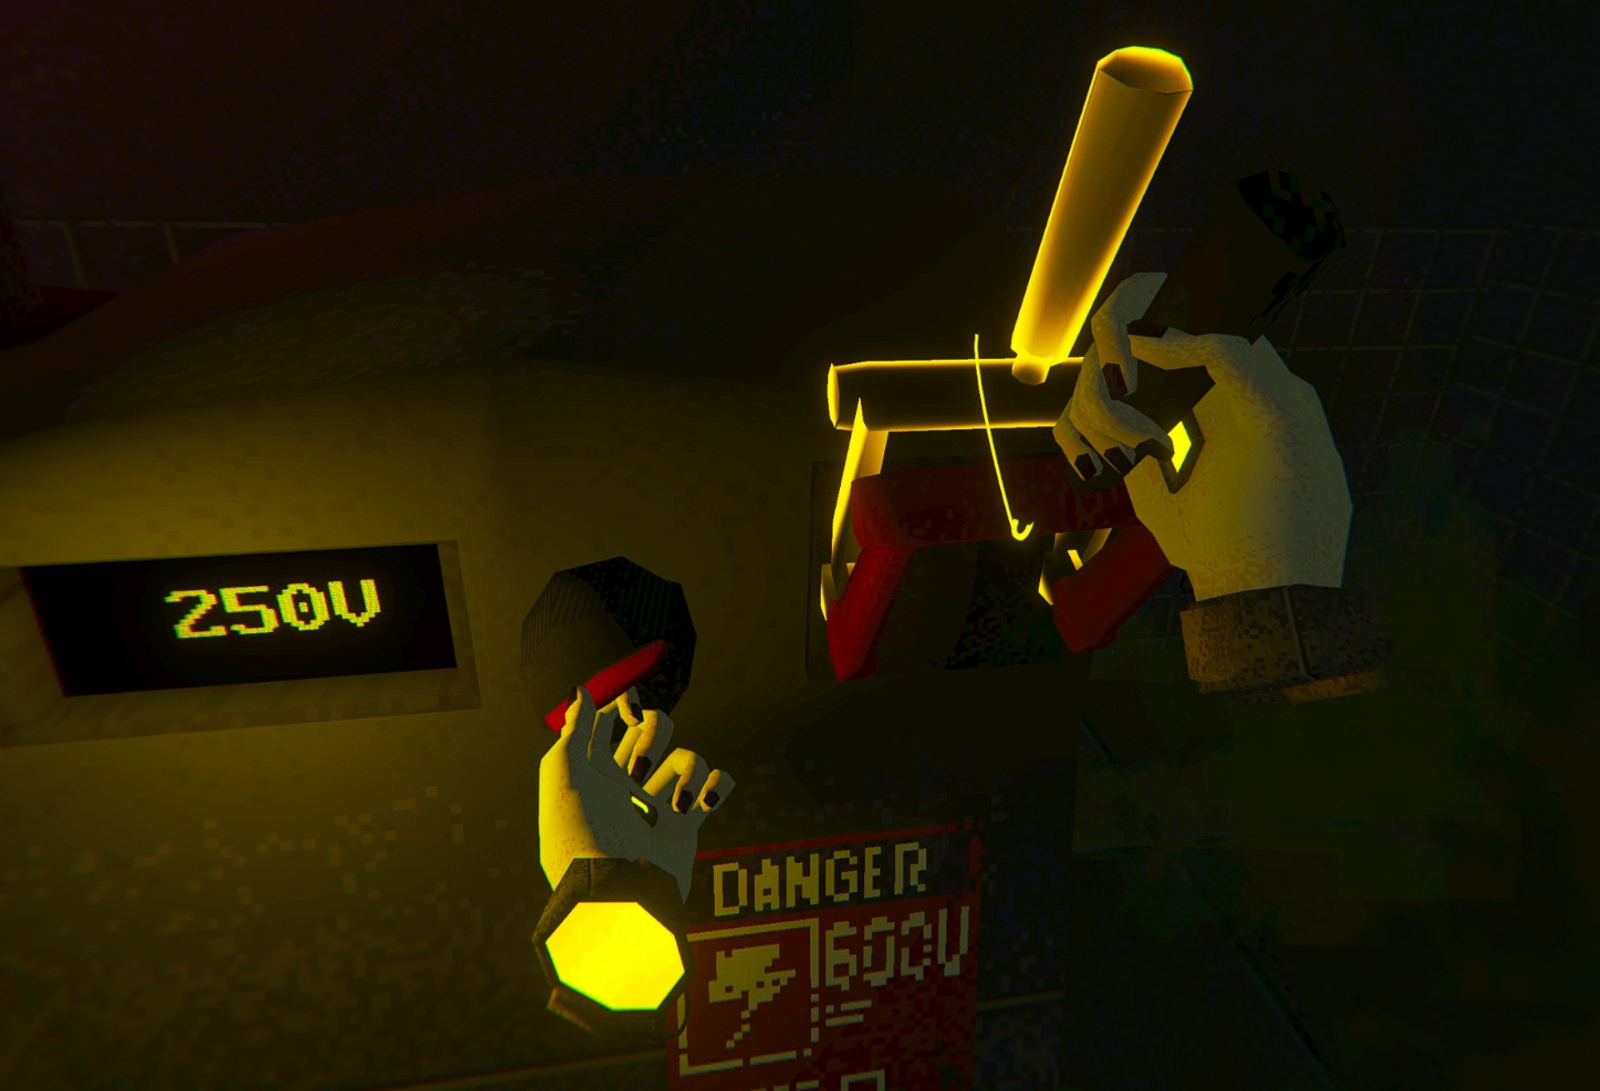
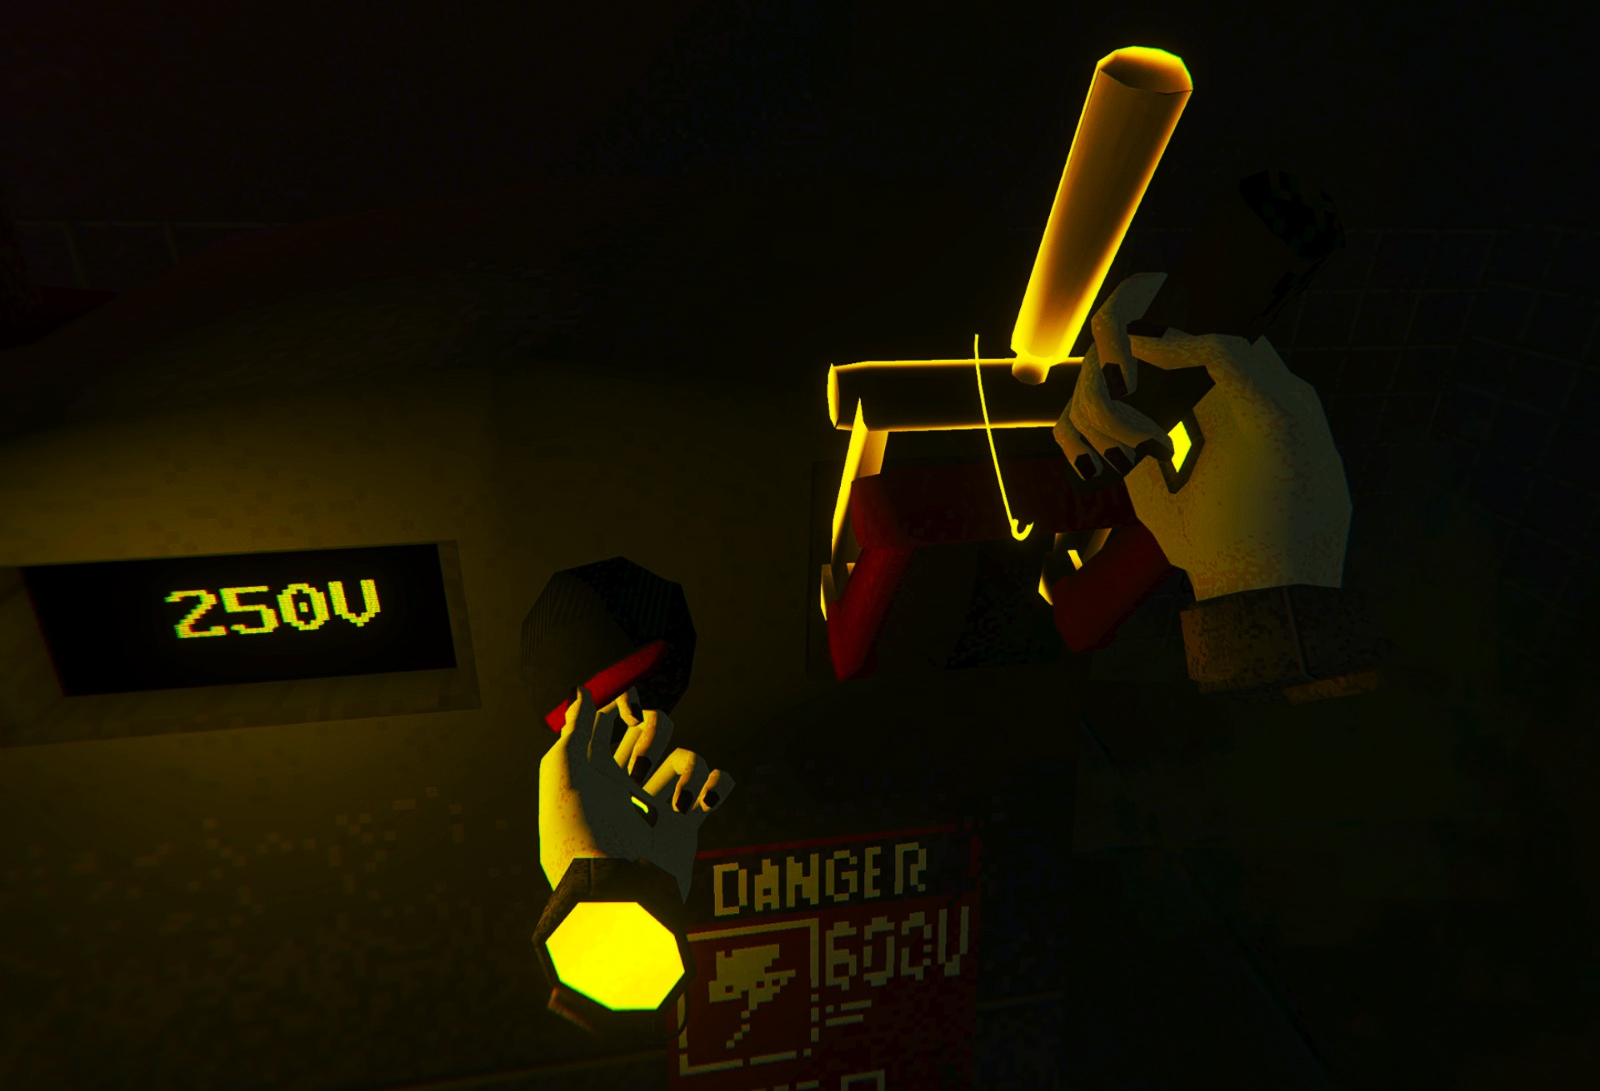
Relatorio FIM

diff --git a/Relatório/PFC_Relatorio_50825_51692.tex b/Relatório/PFC_Relatorio_50825_51692.tex
@@ -828,7 +828,8 @@ em quatro secções principais. Na secção~\ref{sec:arquitetura-sistema} é
 apresentada a arquitetura do sistema. Na secção~\ref{sec:elementos-graficos} são
 detalhados os elementos gráficos e o ambiente do jogo e, por fim, na
 secção~\ref{sec:sistemas-interativos}, são descritos os sistemas
-interativos que sustentam a jogabilidade.
+interativos que sustentam a jogabilidade. Para concluir, na secção~\ref{sec:egofr}, é 
+descrito e ilustrado o resultado final do jogo.
 
 % NOTA PARA A ESCRITA DA IMPLEMENTAÇÃO:
 % - Foco: APLICAÇÃO PRÁTICA, ENGENHARIA E PRODUÇÃO PRÓPRIA.
@@ -1417,7 +1418,7 @@ da ordem ou hierarquia da cena.
 
 De modo a automatizar a configuração inicial, foi desenvolvida uma
 ferramenta de editor acessível através do menu
-\texttt{Tools > Setup Saveable Objects}, exemplificado na Figura~\ref{fig:setup_saveable_objects}. 
+\texttt{Tools > Setup Saveable Objects}. 
 Esta ferramenta percorre
 toda a cena em busca de objetos com comportamentos manipuláveis,
 nomeadamente objetos com \texttt{XRGrabInteractable} ou com
@@ -1426,58 +1427,35 @@ o componente \texttt{SaveableObject}. Este procedimento elimina a necessidade
 de configurar manualmente
 cada objeto da cena, que é mais trabalhoso e propício a erros de omissão.
 
-\begin{figure}[H]
-    \centering
-    \includegraphics[scale=1.1]{Imagens/tool_saveable_objects.png}
-    \caption{Janela de configuração inicial dos objetos manipuláveis.}
-    \label{fig:setup_saveable_objects}
-\end{figure}
-
 Por fim, para dar \textit{feedback} ao utilizador após uma gravação,
 foi implementada uma animação de texto em \texttt{HUD} que surge, pisca três
 vezes com um \textit{fade}, e desaparece automaticamente.
 
-\section{\textit{Ego Fractum}}
+\section{\textit{Ego Fractum}}\label{egofr}
 
 Esta secção apresenta uma visão geral de \textit{Ego Fractum} através de
 capturas de ecrã representativas dos principais momentos da experiência de jogo.
 O objetivo é ilustrar os ambientes, a progressão e as mecânicas principais para
-facilitar a compreensão das decisões de desenvolvimento descritas ao longo
-deste relatório.
-\par
+facilitar a compreensão das decisões de desenvolvimento descritas ao longo deste
+relatório.
+
 Ao longo do jogo, o jogador explora um laboratório abandonado, interage com
 objetos do ambiente e resolve uma sequência de \textit{puzzles} para progredir
-na narrativa. As figuras seguintes apresentam diferentes momentos do jogo,
-acompanhados de uma breve descrição do contexto e das ações realizadas pelo
-jogador.
-
-%
-%Figura 1 – Introdução ao jogo
-% (a) Menu principal
-% (b) Átrio inicial
-% (c) Primeiro objetivo
-%Figura 2 – Progressão
-% (a) Exploração do laboratório
-% (b) Resolução de um puzzle
-% (c) Interface diegética
-%Figura 3 – Fase final
-%( a) Último puzzle
-%( b) Inimigo
-% (c) Cena final
-%
+na narrativa. As Figuras~\ref{fig:ego_1}, \ref{fig:ego_2} e \ref{fig:ego_3}
+apresentam diferentes momentos da experiência de jogo.
 
 \begin{figure}[H]
     \centering
 
     \begin{subfigure}[b]{0.48\textwidth}
         \centering
-        \includegraphics[width=\textwidth]{Imagens/isel_logo.png}
+        \includegraphics[width=\textwidth]{Imagens/egofr_menu.jpeg}
         \caption{Menu principal.}
     \end{subfigure}
     \hfill
     \begin{subfigure}[b]{0.48\textwidth}
         \centering
-        \includegraphics[width=\textwidth]{Imagens/isel_logo.png}
+        \includegraphics[width=\textwidth]{Imagens/egofr_intro.png}
         \caption{Início do jogo.}
     \end{subfigure}
 
@@ -1485,17 +1463,17 @@ jogador.
     \label{fig:ego_1}
 \end{figure}
 
-O jogo inicia-se no menu principal, onde o jogador pode iniciar uma nova
-partida ou carregar o progresso anteriormente guardado. Após o início da
-sessão, o jogador é colocado no laboratório, onde começa a exploração do
-ambiente.
+O jogo inicia-se no menu principal, onde o jogador pode iniciar um novo jogo ou
+carregar o progresso anteriormente guardado. Conforme ilustrado na
+Figura~\ref{fig:ego_1}, após o início da sessão o jogador é colocado no
+laboratório, onde começa a exploração do ambiente.
 
 \begin{figure}[H]
     \centering
 
     \begin{subfigure}[b]{0.48\textwidth}
         \centering
-        \includegraphics[width=\textwidth]{Imagens/isel_logo.png}
+        \includegraphics[width=\textwidth]{Imagens/egofr_exploracao.png}
         \caption{Exploração do laboratório.}
     \end{subfigure}
     \hfill
@@ -1509,31 +1487,33 @@ ambiente.
     \label{fig:ego_2}
 \end{figure}
 
-Ao longo do jogo, o jogador percorre diferentes áreas do laboratório,
-interage com objetos do ambiente e resolve \textit{puzzles} para desbloquear
-novas zonas e progredir na narrativa.
+Como se observa na Figura~\ref{fig:ego_2}, o jogador percorre diferentes áreas
+do laboratório, interage com objetos do ambiente e resolve \textit{puzzles} para
+desbloquear novas zonas e progredir na narrativa.
 
 \begin{figure}[H]
     \centering
 
     \begin{subfigure}[b]{0.48\textwidth}
         \centering
-        \includegraphics[width=\textwidth]{Imagens/isel_logo.png}
-        \caption{Último \textit{puzzle}.}
+        \includegraphics[width=\textwidth]{Imagens/egofr_puzzle2.png}
+        \caption{Segundo \textit{puzzle}.}
     \end{subfigure}
     \hfill
     \begin{subfigure}[b]{0.48\textwidth}
         \centering
-        \includegraphics[width=\textwidth]{Imagens/isel_logo.png}
-        \caption{Momento final do jogo.}
+        \includegraphics[width=\textwidth]{Imagens/egofr_final.png}
+        \caption{Terceiro \textit{puzzle}.}
     \end{subfigure}
 
-    \caption{Momentos finais da experiência de jogo.}
+    \caption{\textit{Puzzles} e momentos finais da experiência de jogo.}
     \label{fig:ego_3}
 \end{figure}
 
-A progressão culmina na resolução do último \textit{puzzle}, seguida da
-sequência final que conclui a narrativa do jogo.
+A Figura~\ref{fig:ego_3} apresenta os momentos finais 
+da experiência, nos quais
+o jogador resolve os últimos \textit{puzzles} e desencadeia a sequência que
+conclui a narrativa.
 
 %\cleardoublepage
 \chapter{Validação e Testes}